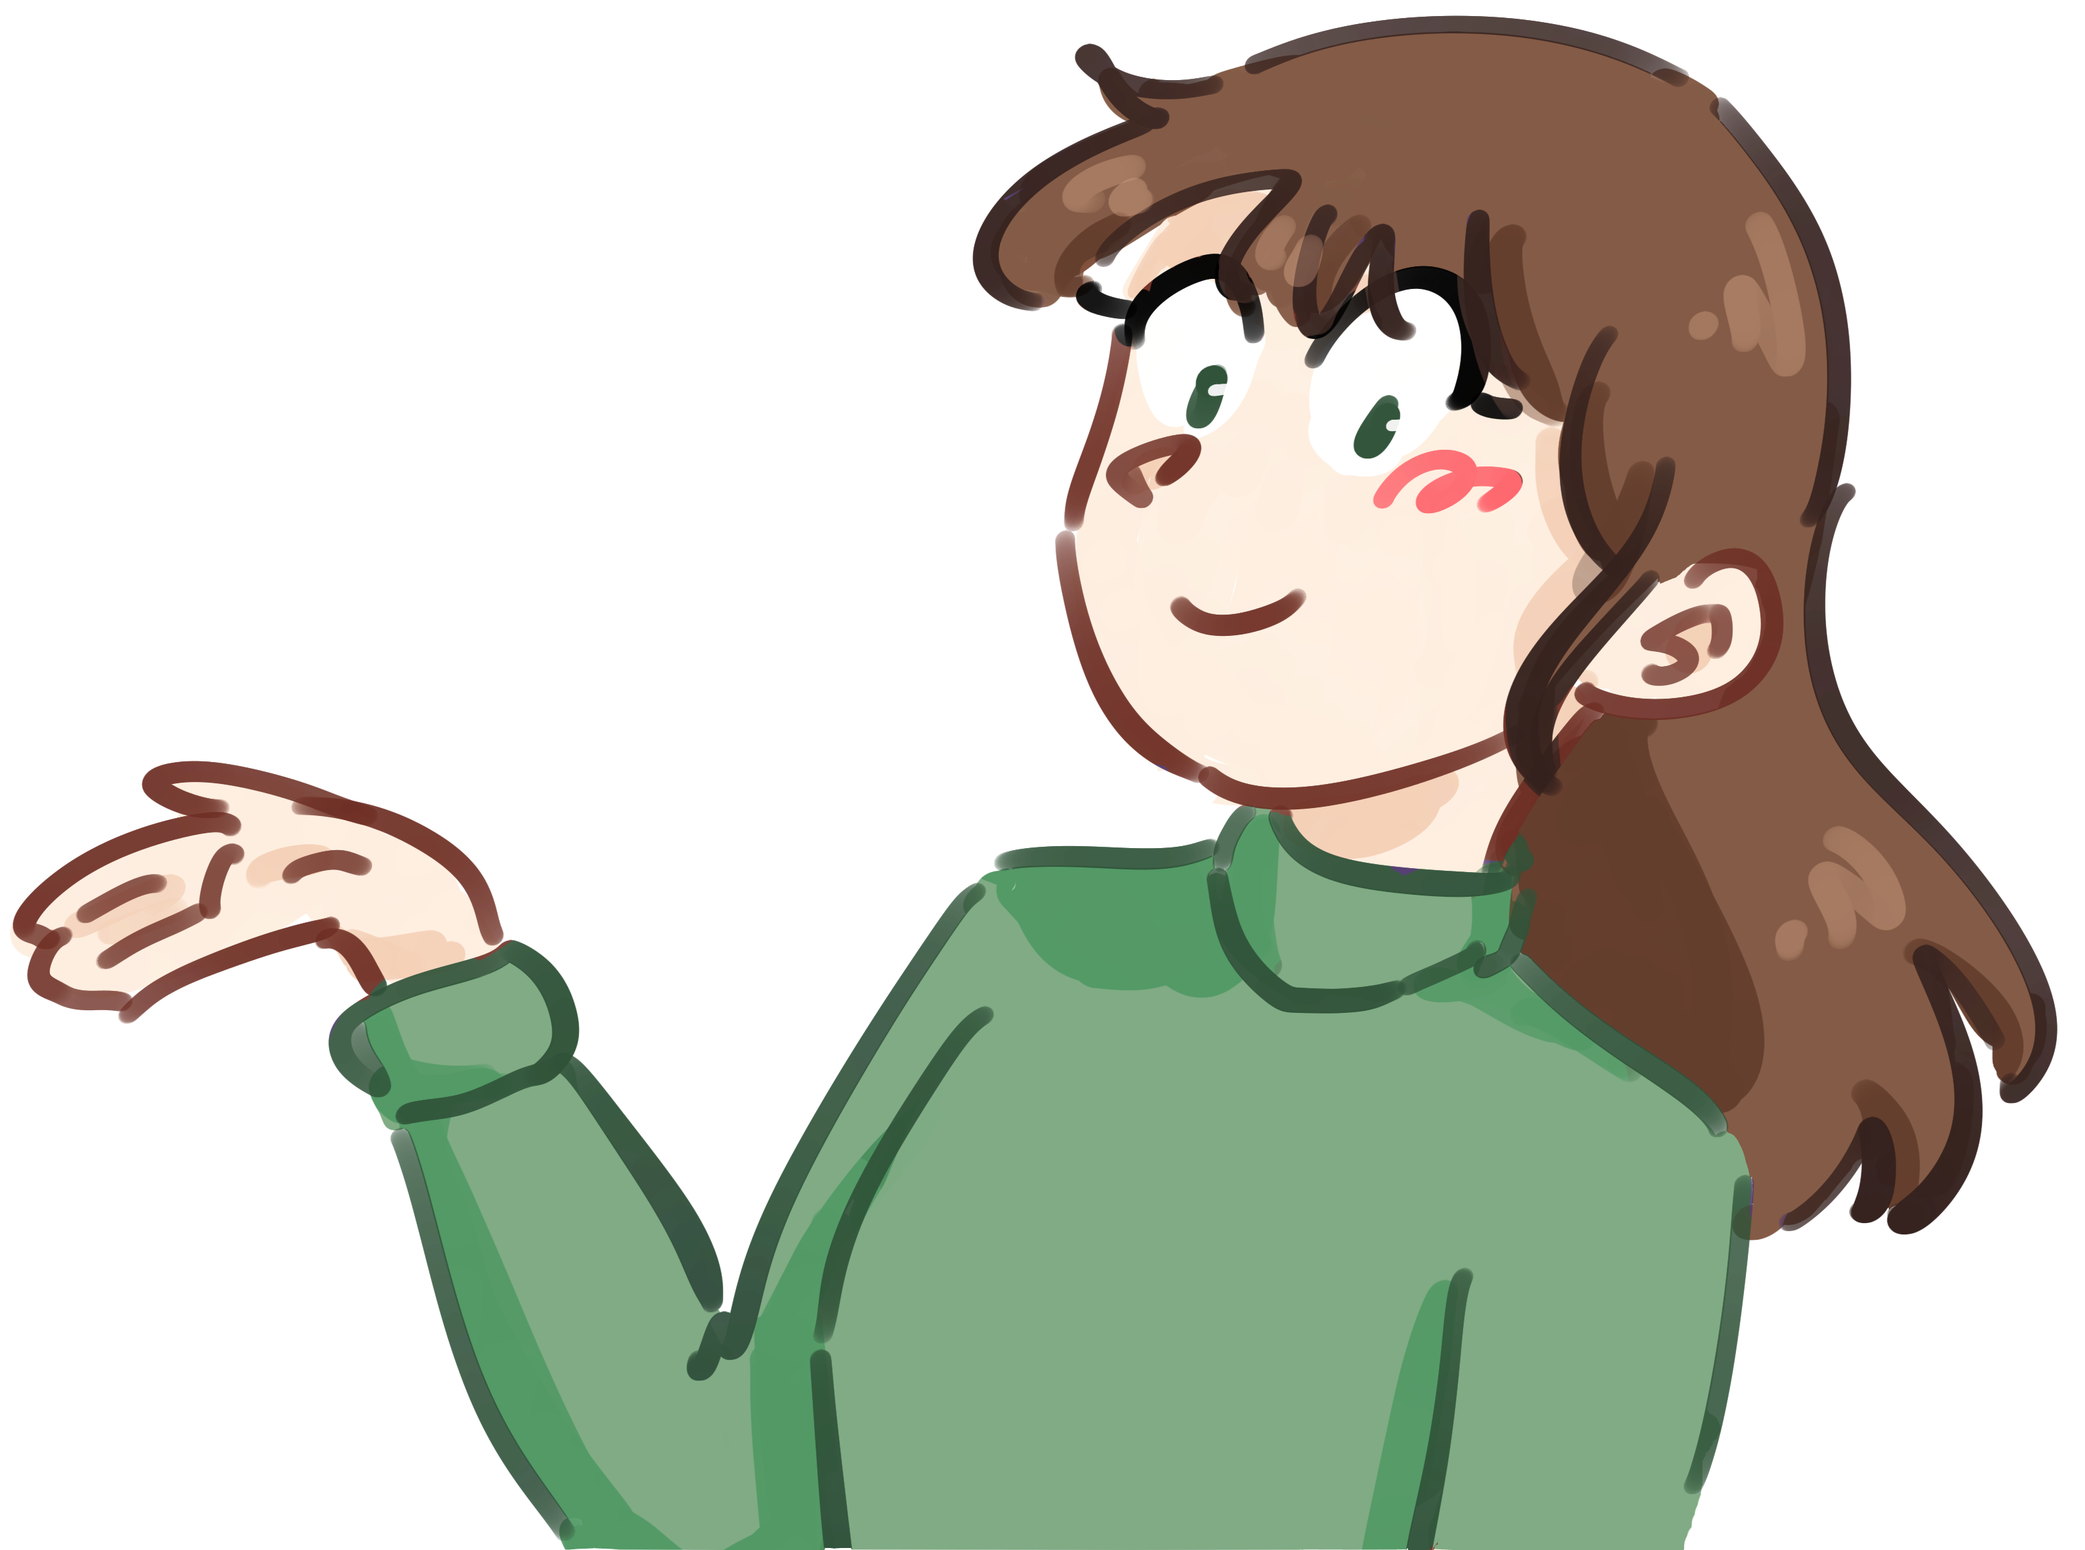
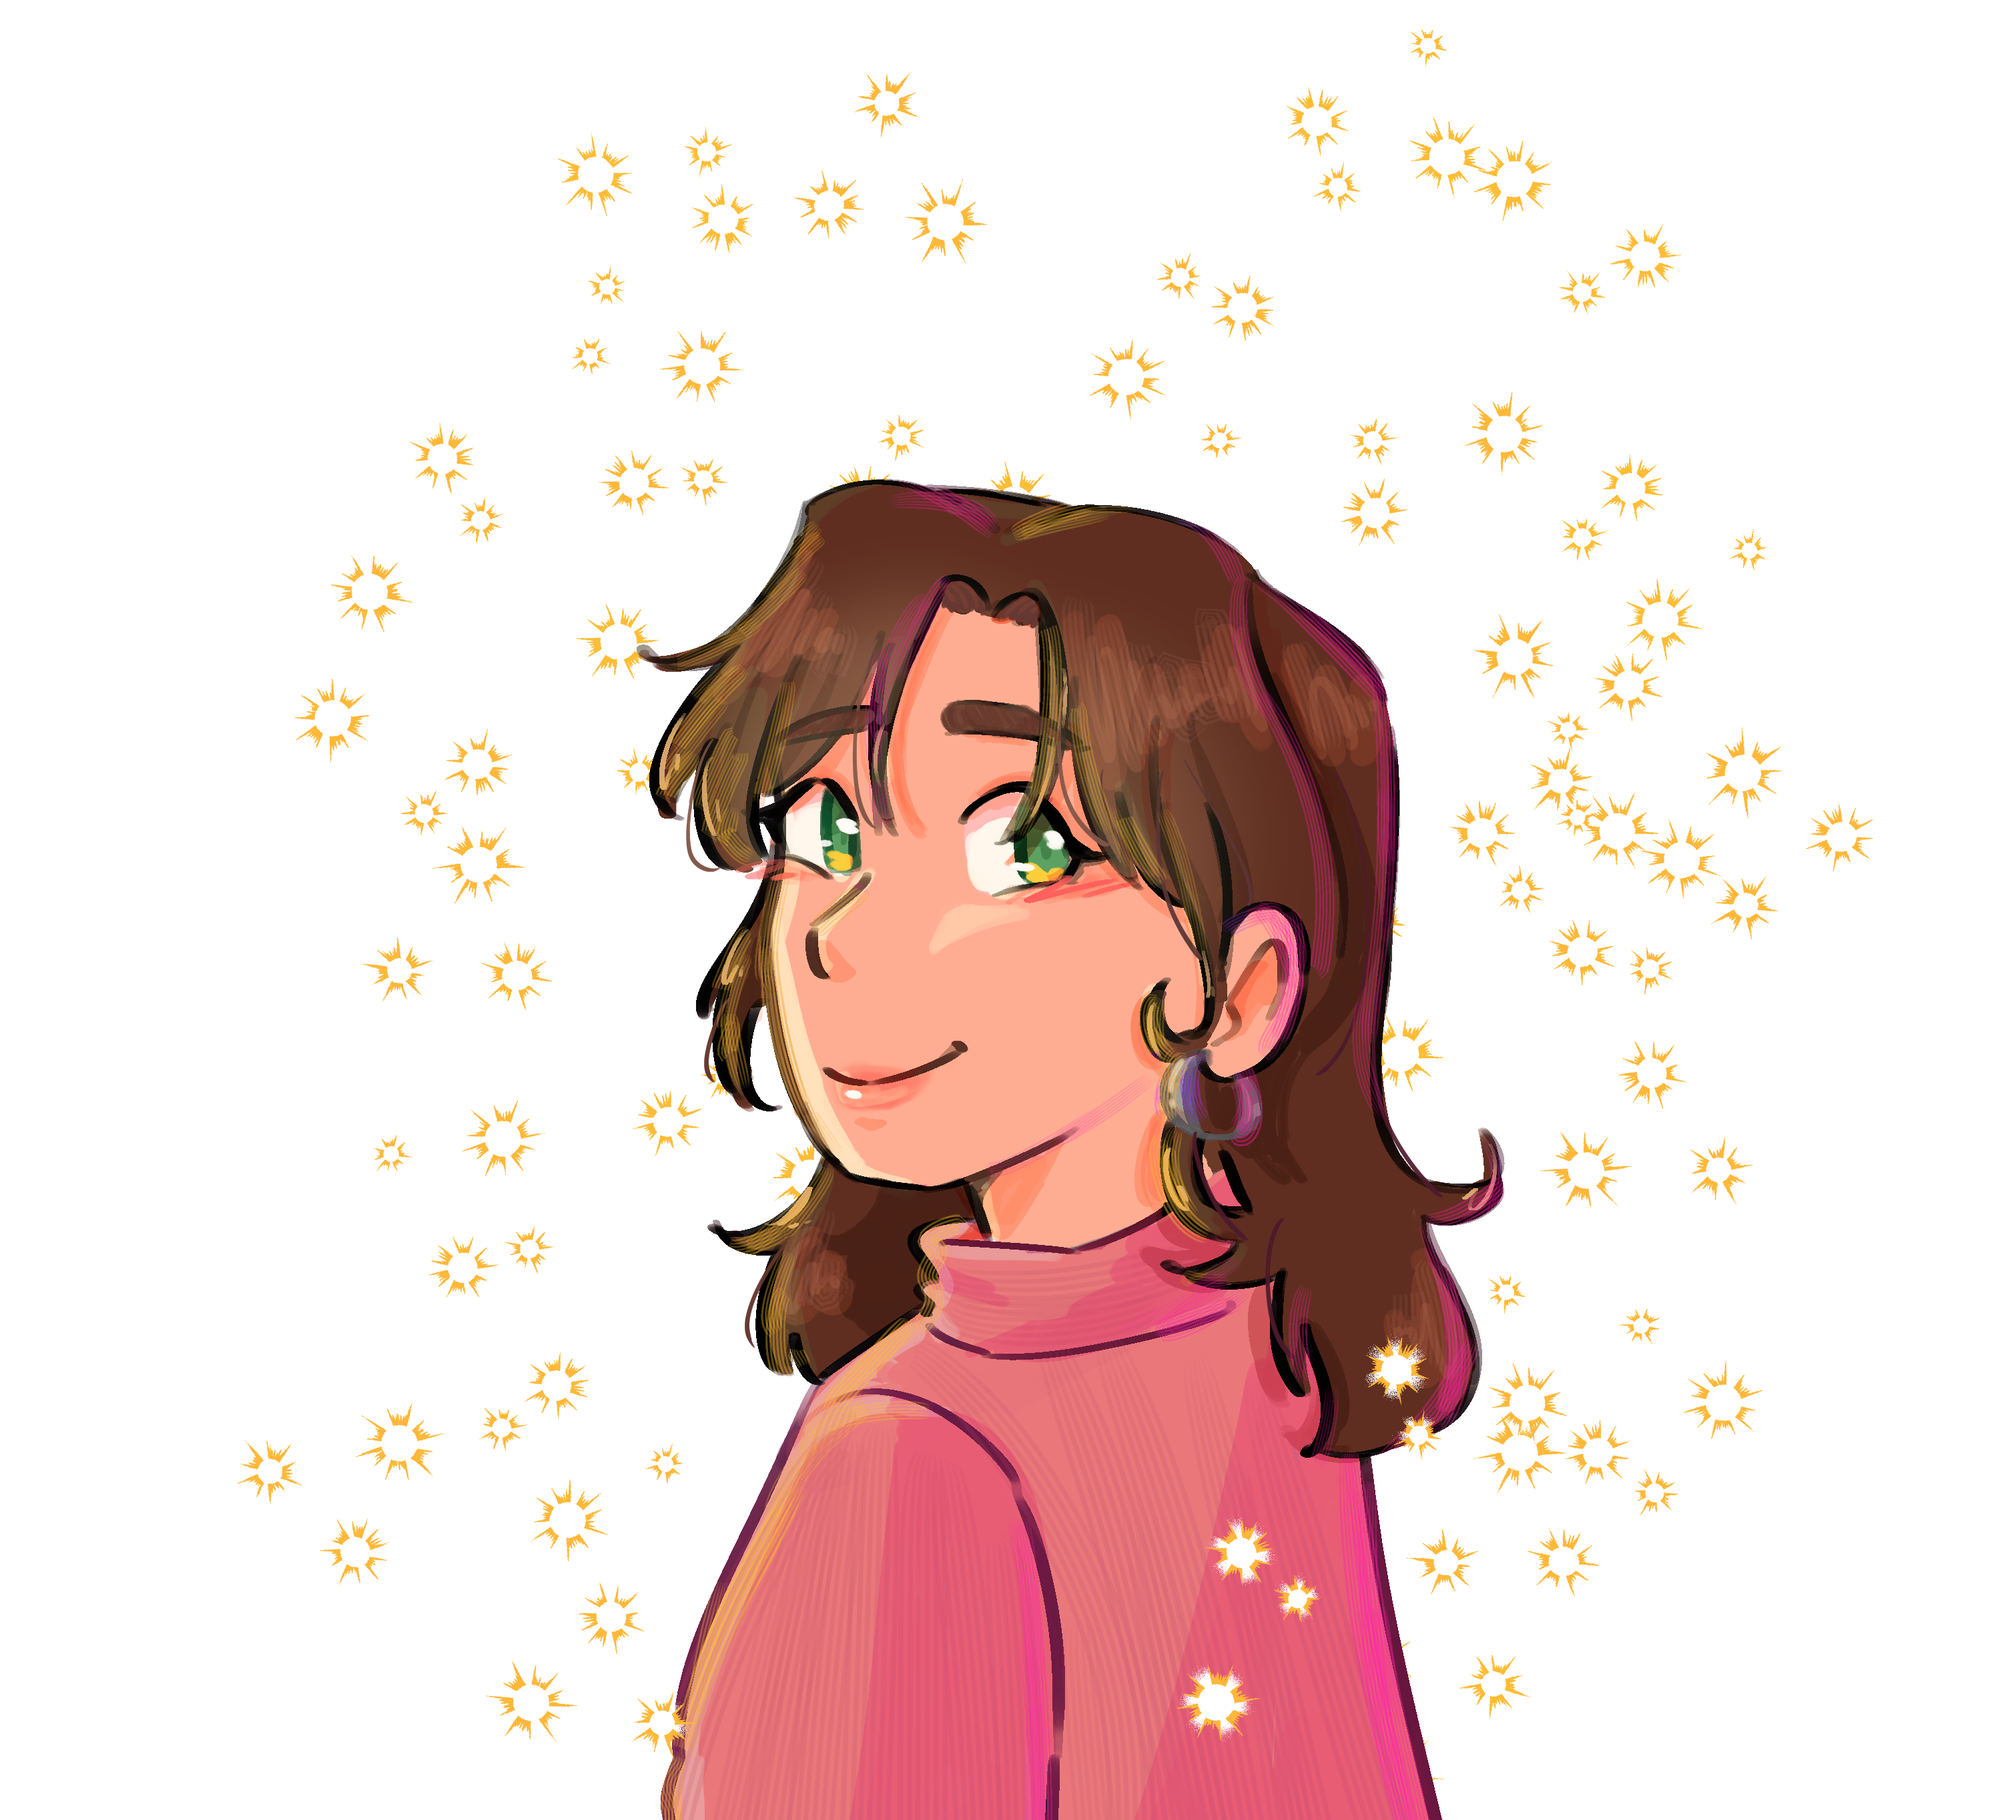
encooore des petites modifs

diff --git a/assets/css/style.css b/assets/css/style.css
@@ -7,7 +7,7 @@
     --vert-navbar: #798e72;
     --vert-clair-navbar: #a8b79f;
     --vert-clair: #cedac7;
-    --rose-fonce: #ea97a4;
+    --rose-fonce: rgb(234, 151, 164);
     --rose: #ffdce2;
     --rose-clair: #ffedf0;
 }
@@ -279,12 +279,13 @@ img {
 }
 
 #logo_stock2com {
-    background-color: #fff;
+    background-color: transparent;
+    display: flex;
 }
 
 #logo_stock2com:hover {
-    background-color: var(--rose-clair
-    );
+    background-color: transparent;
+    transform: scale(1.2);
 }
 
 .mini-card a {
@@ -409,7 +410,6 @@ img {
 
 #photo_profil {
     position: relative;
-    filter: drop-shadow(10px 10px 10px rgba(88, 103, 83, 0.3));
     top: 5px;
 }
 

diff --git a/vues/pages-cartes/stage.html b/vues/pages-cartes/stage.html
@@ -15,7 +15,7 @@
             </p>
         </div>
 
-        <div class="center">
+        <div>
             <a href="https://www.stock2com.fr/" target="_blank" id="logo_stock2com"><img src="assets/images/stages/logo.png" alt="Logo Stock2Com"></a>
         </div>
     </div>

diff --git a/vues/pages-details/s4.2.php b/vues/pages-details/s4.2.php
@@ -5,15 +5,15 @@
             <h1>Epoka Presse Mobile : gestion des abonnés</h1>
             <div class="content">
                 <p>
-                    Epoka Presse est une société fictive de presse qui a besoin d'une application mobile Android pour gérer
+                    Epoka Presse est une société fictive de presse qui a besoin d'une <b>application mobile Android</b> pour gérer
                     ses abonnés. Pour ce projet, j'étais seule.
                     <br>
-                    Pour commencer, j'ai créé une application de web service de type REST utilisant SQL Server.
+                    Pour commencer, j'ai créé une application de <b>web service de type REST</b> utilisant <b>SQL Server</b>.
                     Celle-ci devait afficher les informations d'un abonné ainsi que ses abonnements
                     à partir de son code et de son mot de passe.
                     Pour cela, j'ai réutilisé la librairie de classe créée dans l'application web Jakarta de gestion des abonnés d'Epoka.
                     <br>
-                    Puis j'ai créé l'application mobile Android à l'aide du logiciel Android Studio.
+                    Puis j'ai créé l'application mobile à l'aide du logiciel <b>Android Studio</b>.
                     Je n'ai cependant pas eu le temps de finir cette application par manque de temps,
                     elle ne contient donc que la page d'accueil actuellement.
                 </p>
